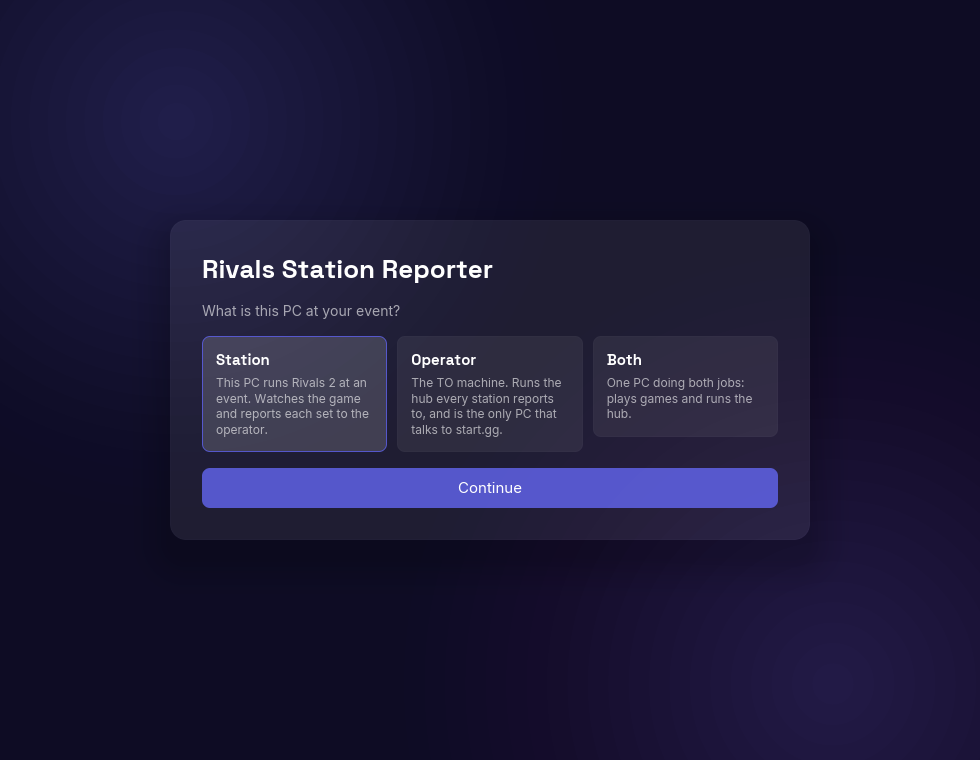
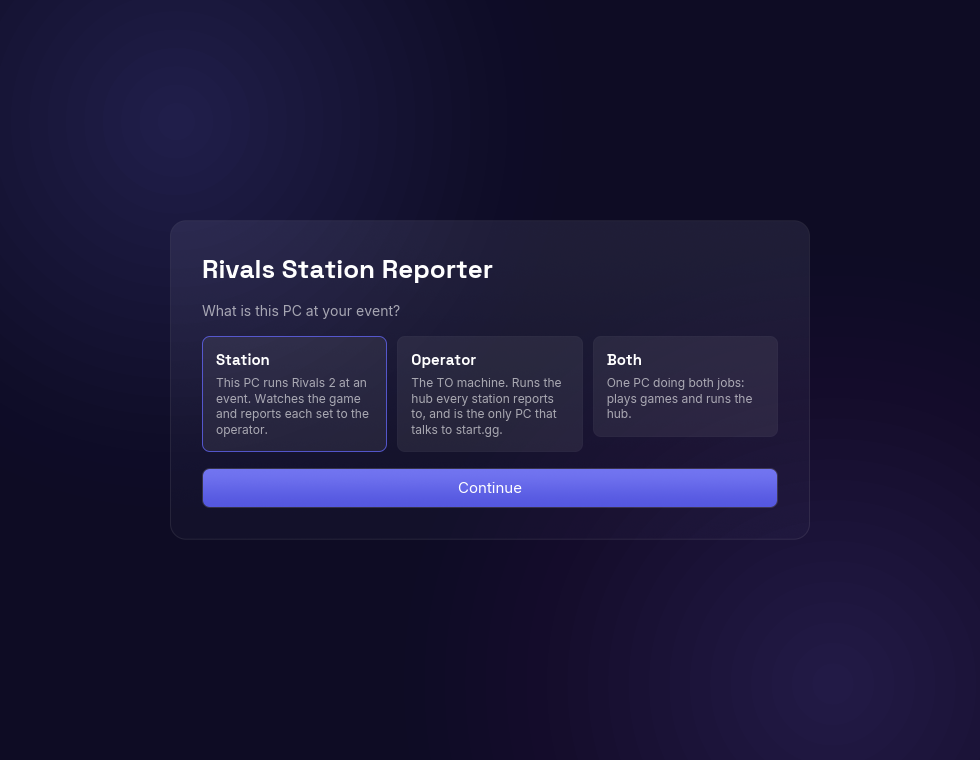
Beauty pass: tracked uppercase titles, real font weights, gradient surfaces
- Section titles fake the web app's letter-spacing with thin spaces (iced
  has no tracking); semibold Inter for heads, medium for player lines.
- Cards get a soft vertical gradient + brighter hairline (the glass read
  without backdrop-blur); the live card bleeds accent into its panel.
- Primary buttons: accent gradient with a soft glow.
- ci: stamp beta versions with python, not GNU-sed (macOS zips shipped
  without the beta suffix).

Changed region(s): [[0.1837, 0.4842, 0.7959, 0.6658]]

diff --git a/crates/station-app/src/theme.rs b/crates/station-app/src/theme.rs
@@ -277,3 +277,109 @@ pub fn drawer(_theme: &Theme) -> container::Style {
         ..container::Style::default()
     }
 }
+
+// ---- typography helpers -------------------------------------------------------
+
+/// Fakes the web app's `letter-spacing: 0.06em` on uppercase section titles:
+/// iced's text has no tracking, but a U+2009 THIN SPACE between characters
+/// reads the same at these sizes.
+pub fn tracked(s: &str) -> String {
+    let upper = s.to_uppercase();
+    let mut out = String::with_capacity(upper.len() * 2);
+    for (i, ch) in upper.chars().enumerate() {
+        if i > 0 {
+            out.push('\u{2009}');
+        }
+        out.push(ch);
+    }
+    out
+}
+
+// ---- richer surfaces -----------------------------------------------------------
+
+fn vertical_gradient(top: Color, bottom: Color) -> Background {
+    Background::Gradient(
+        iced::gradient::Linear::new(iced::Radians(std::f32::consts::PI))
+            .add_stop(0.0, top)
+            .add_stop(1.0, bottom)
+            .into(),
+    )
+}
+
+/// The glassy main card, take two: without backdrop-blur (not a thing
+/// outside a browser), a soft vertical gradient + a brighter hairline reads
+/// as the same material.
+pub fn card_rich(_theme: &Theme) -> container::Style {
+    container::Style {
+        background: Some(vertical_gradient(
+            rgba(214, 216, 255, 0.085),
+            rgba(150, 150, 210, 0.035),
+        )),
+        border: Border {
+            color: rgba(255, 255, 255, 0.10),
+            width: 1.0,
+            radius: Radius::new(RADIUS_CARD),
+        },
+        shadow: Shadow {
+            color: Color::from_rgba(0.0, 0.0, 0.0, 0.45),
+            offset: iced::Vector::new(0.0, 24.0),
+            blur_radius: 64.0,
+        },
+        text_color: Some(TEXT_PRIMARY),
+        ..container::Style::default()
+    }
+}
+
+/// The live "Now playing" card: the accent bleeds into the panel itself.
+pub fn panel_live(_theme: &Theme) -> container::Style {
+    container::Style {
+        background: Some(vertical_gradient(
+            Color { a: 0.13, ..ACCENT },
+            Color { a: 0.04, ..ACCENT },
+        )),
+        border: Border {
+            color: Color { a: 0.35, ..ACCENT },
+            width: 1.0,
+            radius: Radius::new(RADIUS_PANEL),
+        },
+        text_color: Some(TEXT_PRIMARY),
+        ..container::Style::default()
+    }
+}
+
+/// Primary button with depth: accent gradient + a soft accent glow.
+pub fn button_primary_rich(_theme: &Theme, status: button::Status) -> button::Style {
+    let (top, bottom) = match status {
+        button::Status::Hovered | button::Status::Pressed => (
+            rgba(140, 143, 255, 0.95),
+            rgba(112, 114, 245, 0.95),
+        ),
+        button::Status::Disabled => (
+            Color { a: 0.30, ..ACCENT },
+            Color { a: 0.25, ..ACCENT },
+        ),
+        _ => (rgba(118, 121, 250, 0.95), rgba(88, 91, 233, 0.95)),
+    };
+    button::Style {
+        background: Some(vertical_gradient(top, bottom)),
+        text_color: if matches!(status, button::Status::Disabled) {
+            TEXT_MUTED
+        } else {
+            TEXT_PRIMARY
+        },
+        border: Border {
+            color: rgba(255, 255, 255, 0.14),
+            width: 1.0,
+            radius: Radius::new(RADIUS_BUTTON),
+        },
+        shadow: Shadow {
+            color: Color {
+                a: if matches!(status, button::Status::Disabled) { 0.0 } else { 0.35 },
+                ..ACCENT
+            },
+            offset: iced::Vector::new(0.0, 4.0),
+            blur_radius: 14.0,
+        },
+        ..button::Style::default()
+    }
+}

diff --git a/crates/station-app/src/ui/console.rs b/crates/station-app/src/ui/console.rs
@@ -148,7 +148,7 @@ pub fn view(app: &App) -> Element<'_, Message> {
     let count = sets.len();
     col = col.push(
         row![
-            text("ALL STATIONS").size(11).color(theme::TEXT_MUTED),
+            text(theme::tracked("All stations")).font(theme::FONT_BODY_SEMIBOLD).size(10).color(theme::TEXT_MUTED),
             text(format!("{count} set{}", if count == 1 { "" } else { "s" }))
                 .size(11)
                 .color(theme::TEXT_MUTED),
@@ -211,11 +211,13 @@ pub fn view(app: &App) -> Element<'_, Message> {
     if !other.is_empty() {
         let toggle = button(
             text(format!(
-                "REPORTED / NOT ACTIONABLE  {} {}",
+                "{}  {} {}",
+                theme::tracked("Reported / not actionable"),
                 other.len(),
                 if app.console.show_other { "▾" } else { "▸" }
             ))
-            .size(11),
+            .font(theme::FONT_BODY_SEMIBOLD)
+            .size(10),
         )
         .style(theme::button_linkish)
         .padding(0)
@@ -242,7 +244,7 @@ pub fn view(app: &App) -> Element<'_, Message> {
 fn group_head(title: &str, n: usize, color: iced::Color) -> Element<'static, Message> {
     row![
         text("●").size(9).color(color),
-        text(title.to_string()).size(11).color(color),
+        text(theme::tracked(title)).font(theme::FONT_BODY_SEMIBOLD).size(10).color(color),
         text(n.to_string()).size(11).color(theme::TEXT_MUTED),
     ]
     .spacing(6)
@@ -288,7 +290,7 @@ fn set_row<'a>(app: &'a App, r: &'a Value) -> Element<'a, Message> {
             .style(theme::panel)
             .padding([2, 8]),
         text(time_label).font(theme::FONT_MONO).size(12).color(time_color),
-        text(format::hub_players_label(r)).size(14).color(theme::TEXT_PRIMARY),
+        text(format::hub_players_label(r)).font(theme::FONT_BODY_MEDIUM).size(14).color(theme::TEXT_PRIMARY),
         Space::new().width(Length::Fill),
     ]
     .spacing(10)
@@ -345,7 +347,7 @@ fn set_row<'a>(app: &'a App, r: &'a Value) -> Element<'a, Message> {
         container(
             row![
                 text("●").size(7).color(badge_color),
-                text(status.to_uppercase()).size(10).color(badge_color),
+                text(theme::tracked(status)).font(theme::FONT_BODY_SEMIBOLD).size(9).color(badge_color),
             ]
             .spacing(4)
             .align_y(Alignment::Center),
@@ -533,7 +535,7 @@ fn set_row<'a>(app: &'a App, r: &'a Value) -> Element<'a, Message> {
         let mut actions = row![].spacing(8).align_y(Alignment::Center);
         if reportable && status != "reported" {
             let mut b = button(text("Report").size(13))
-                .style(theme::button_primary)
+                .style(theme::button_primary_rich)
                 .padding([6, 16]);
             if !busy {
                 b = b.on_press(Message::Console(Msg::OpenPicker(key.clone())));

diff --git a/crates/station-app/src/ui/main_view.rs b/crates/station-app/src/ui/main_view.rs
@@ -28,8 +28,9 @@ pub fn view(app: &App) -> Element<'_, Message> {
         );
     }
     title_row = title_row.push(
-        text(cfg.mode.to_uppercase())
-            .size(11)
+        text(theme::tracked(&cfg.mode))
+            .font(theme::FONT_BODY_SEMIBOLD)
+            .size(10)
             .color(theme::TEXT_MUTED),
     );
     if cfg.dry_run {
@@ -199,7 +200,7 @@ pub fn view(app: &App) -> Element<'_, Message> {
         ]
         .spacing(14),
     )
-    .style(theme::card)
+    .style(theme::card_rich)
     .padding(24)
     .width(Length::Fixed(920.0))
     .height(Length::Fill)
@@ -256,7 +257,7 @@ fn live_set_card(app: &App) -> Element<'_, Message> {
 
     let mut head = row![
         text("●").size(11).color(theme::ACCENT),
-        text("Now playing").size(12).color(theme::TEXT_MUTED),
+        text(theme::tracked("Now playing")).font(theme::FONT_BODY_SEMIBOLD).size(10).color(theme::TEXT_MUTED),
     ]
     .spacing(6)
     .align_y(Alignment::Center);
@@ -317,9 +318,9 @@ fn live_set_card(app: &App) -> Element<'_, Message> {
                 .unwrap_or_default()
         )
         .font(theme::FONT_DISPLAY)
-        .size(34)
+        .size(42)
         .color(theme::TEXT_PRIMARY),
-        text("–").size(28).color(theme::TEXT_MUTED),
+        text("–").font(theme::FONT_DISPLAY_MEDIUM).size(32).color(theme::TEXT_MUTED),
         text(
             live.players
                 .get(1)
@@ -327,7 +328,7 @@ fn live_set_card(app: &App) -> Element<'_, Message> {
                 .unwrap_or_default()
         )
         .font(theme::FONT_DISPLAY)
-        .size(34)
+        .size(42)
         .color(theme::TEXT_PRIMARY),
     ]
     .spacing(12)
@@ -352,7 +353,7 @@ fn live_set_card(app: &App) -> Element<'_, Message> {
     }
 
     container(col)
-        .style(theme::panel)
+        .style(theme::panel_live)
         .padding(18)
         .width(Length::Fill)
         .into()
@@ -364,7 +365,7 @@ fn station_sets(app: &App) -> Element<'_, Message> {
     sets.reverse();
 
     let mut col = column![row![
-        text("Sets today").size(12).color(theme::TEXT_MUTED),
+        text(theme::tracked("Sets today")).font(theme::FONT_BODY_SEMIBOLD).size(10).color(theme::TEXT_MUTED),
         text(if sets.is_empty() {
             String::new()
         } else {

diff --git a/crates/station-app/src/ui/current_sets.rs b/crates/station-app/src/ui/current_sets.rs
@@ -220,7 +220,7 @@ pub fn view(app: &App) -> Element<'_, Message> {
     let cs = &app.current_sets;
 
     let mut col = column![row![
-        text("CURRENT SETS").size(11).color(theme::TEXT_MUTED),
+        text(theme::tracked("Current sets")).font(theme::FONT_BODY_SEMIBOLD).size(10).color(theme::TEXT_MUTED),
         text(cs.data.sets.len().to_string()).size(11).color(theme::TEXT_MUTED),
         Space::new().width(Length::Fill),
         button(text(if cs.refreshing { "…" } else { "⟳" }).size(13))
@@ -279,7 +279,7 @@ pub fn view(app: &App) -> Element<'_, Message> {
         col = col.push(
             row![
                 text("●").size(9).color(theme::ACCENT),
-                text("PLAYING NOW").size(10).color(theme::ACCENT),
+                text(theme::tracked("Playing now")).font(theme::FONT_BODY_SEMIBOLD).size(10).color(theme::ACCENT),
                 text(playing.len().to_string()).size(10).color(theme::TEXT_MUTED),
             ]
             .spacing(6)
@@ -292,7 +292,7 @@ pub fn view(app: &App) -> Element<'_, Message> {
     if !startable.is_empty() {
         col = col.push(
             row![
-                text("STARTABLE").size(10).color(theme::TEXT_MUTED),
+                text(theme::tracked("Startable")).font(theme::FONT_BODY_SEMIBOLD).size(10).color(theme::TEXT_MUTED),
                 text(startable.len().to_string()).size(10).color(theme::TEXT_MUTED),
             ]
             .spacing(6),
@@ -319,7 +319,7 @@ fn set_row<'a>(app: &'a App, s: &'a AvailableSet, playing: bool) -> Element<'a, 
         .size(12)
         .color(theme::TEXT_MUTED)
         .width(Length::Fixed(150.0)),
-        text(s.players_label()).size(13).color(theme::TEXT_PRIMARY),
+        text(s.players_label()).font(theme::FONT_BODY_MEDIUM).size(13).color(theme::TEXT_PRIMARY),
         Space::new().width(Length::Fill),
     ]
     .spacing(10)

diff --git a/crates/station-app/src/ui/settings.rs b/crates/station-app/src/ui/settings.rs
@@ -463,7 +463,7 @@ pub fn view<'a>(_app: &'a App, s: &'a State) -> Element<'a, Message> {
             .width(Length::Fill)
             .align_x(Alignment::Center),
     )
-    .style(theme::button_primary)
+    .style(theme::button_primary_rich)
     .padding([9, 0])
     .width(Length::Fill);
     if !s.saving {
@@ -495,7 +495,7 @@ pub fn view<'a>(_app: &'a App, s: &'a State) -> Element<'a, Message> {
         UpdateFlow::Available(u) => {
             update_row = update_row.push(
                 button(text(format!("Update to v{}", u.version)).size(11))
-                    .style(theme::button_primary)
+                    .style(theme::button_primary_rich)
                     .padding([3, 10])
                     .on_press(Message::Settings(Msg::ApplyUpdate)),
             );
@@ -510,7 +510,7 @@ pub fn view<'a>(_app: &'a App, s: &'a State) -> Element<'a, Message> {
         UpdateFlow::Staged => {
             update_row = update_row.push(
                 button(text("Restart to finish update").size(11))
-                    .style(theme::button_primary)
+                    .style(theme::button_primary_rich)
                     .padding([3, 10])
                     .on_press(Message::Settings(Msg::RestartNow)),
             );

diff --git a/crates/station-app/src/ui/onboarding.rs b/crates/station-app/src/ui/onboarding.rs
@@ -197,7 +197,7 @@ pub fn view(app: &App) -> Element<'_, Message> {
     };
 
     container(inner)
-        .style(theme::card)
+        .style(theme::card_rich)
         .padding(32)
         .width(Length::Fixed(640.0))
         .into()
@@ -243,7 +243,7 @@ fn step_one(ob: &State) -> Element<'_, Message> {
                 .width(Length::Fill)
                 .align_x(Alignment::Center)
         )
-        .style(theme::button_primary)
+        .style(theme::button_primary_rich)
         .padding([10, 0])
         .width(Length::Fill)
         .on_press(Message::Onboarding(Msg::Continue)),
@@ -409,7 +409,7 @@ fn step_two(ob: &State) -> Element<'_, Message> {
     }
 
     let mut start = button(text(if ob.saving { "Starting…" } else { "Start" }).size(15))
-        .style(theme::button_primary)
+        .style(theme::button_primary_rich)
         .padding([10, 28]);
     if !ob.saving {
         start = start.on_press(Message::Onboarding(Msg::Finish));
